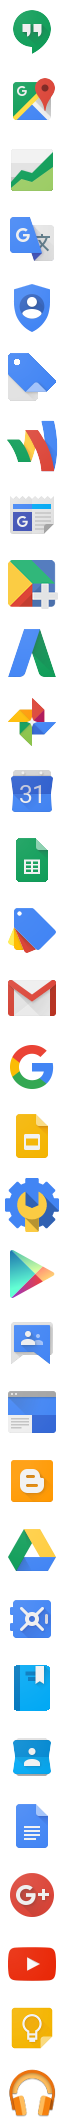
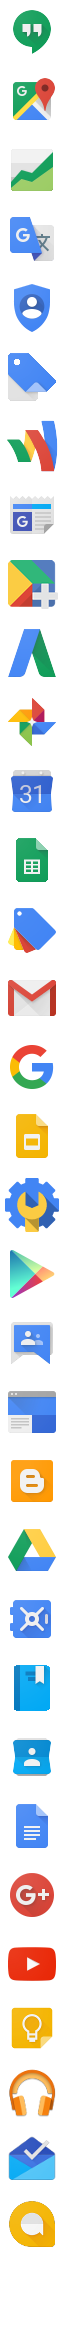
Added support for more Google apps
Added following apps:
* Slides
* Inbox
* Allo
* Classroom

diff --git a/data/gapps-info.js b/data/gapps-info.js
@@ -91,6 +91,26 @@ var gapps_info = {
     "desc" : "Music",
     "iconpos" : "0px -2060px"
   },
+  "gslides": {
+    "url" : "https://slides.google.com/",
+    "desc" : "Slides",
+    "iconpos" : "0px -1104px"
+  },
+  "ginbox": {
+    "url" : "https://inbox.google.com",
+    "desc" : "Inbox",
+    "iconpos" : "0px -2128px"
+  },
+  "gallo": {
+    "url" : "https://allo.google.com/web",
+    "desc" : "Allo",
+    "iconpos" : "0px -2192px"
+  },
+  "gclass": {
+    "url" : "https://classroom.google.com",
+    "desc" : "Classroom",
+    "iconpos" : "0px -1310px"
+  },
   "google": {
     "url" : "https://www.google.com",
     "desc" : "Search",

diff --git a/data/gapps.html b/data/gapps.html
@@ -33,7 +33,7 @@ body {
   height: 64px;
   width: 64px;
   background-image: url("gapps-icons.png");
-  background-size: 64px 2124px;
+  background-size: 64px 2334px;
 }
 #ga-grid .ga-ico-desc {
   display: block;
